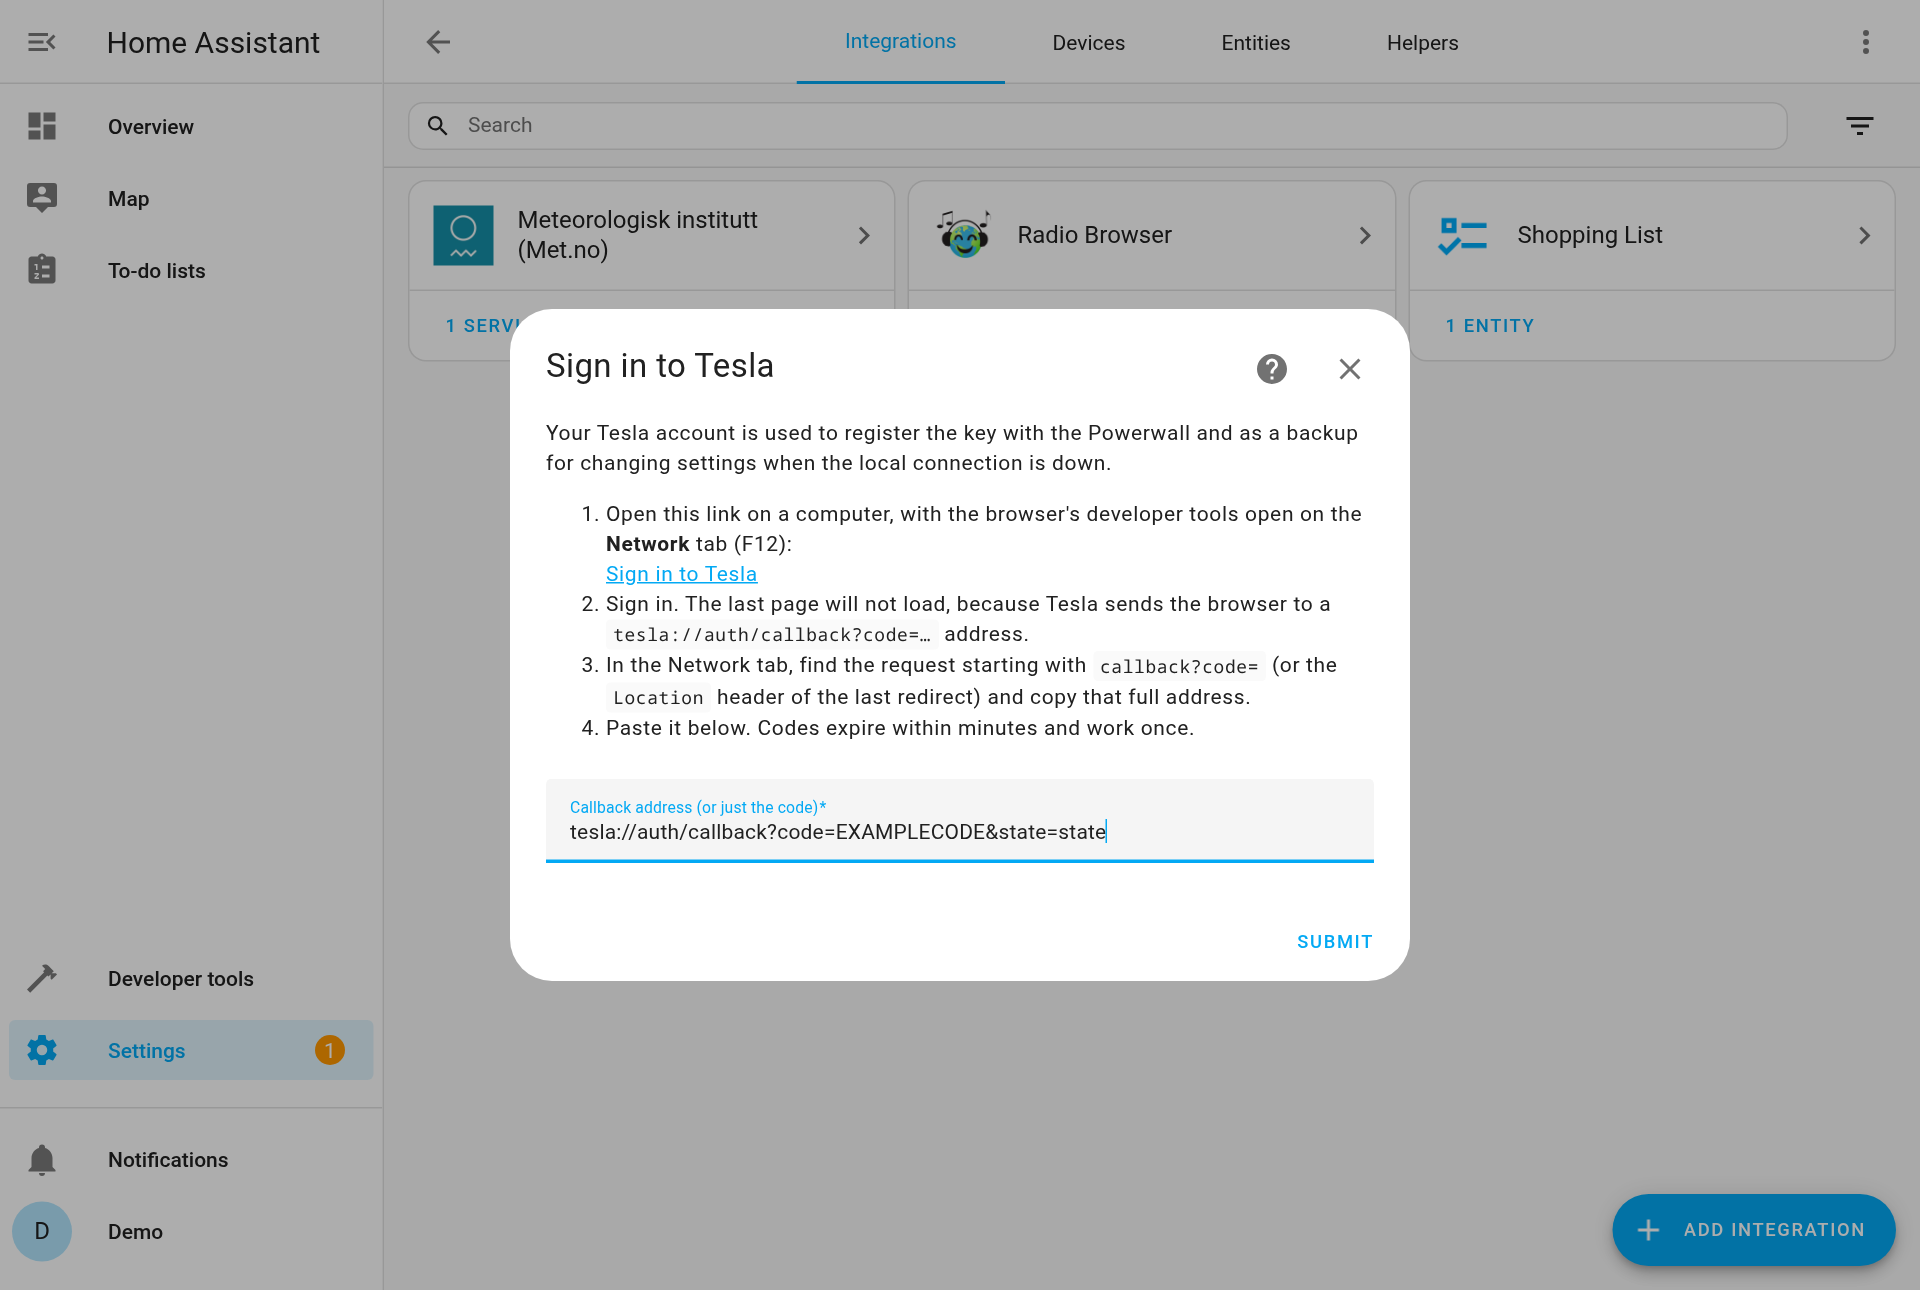
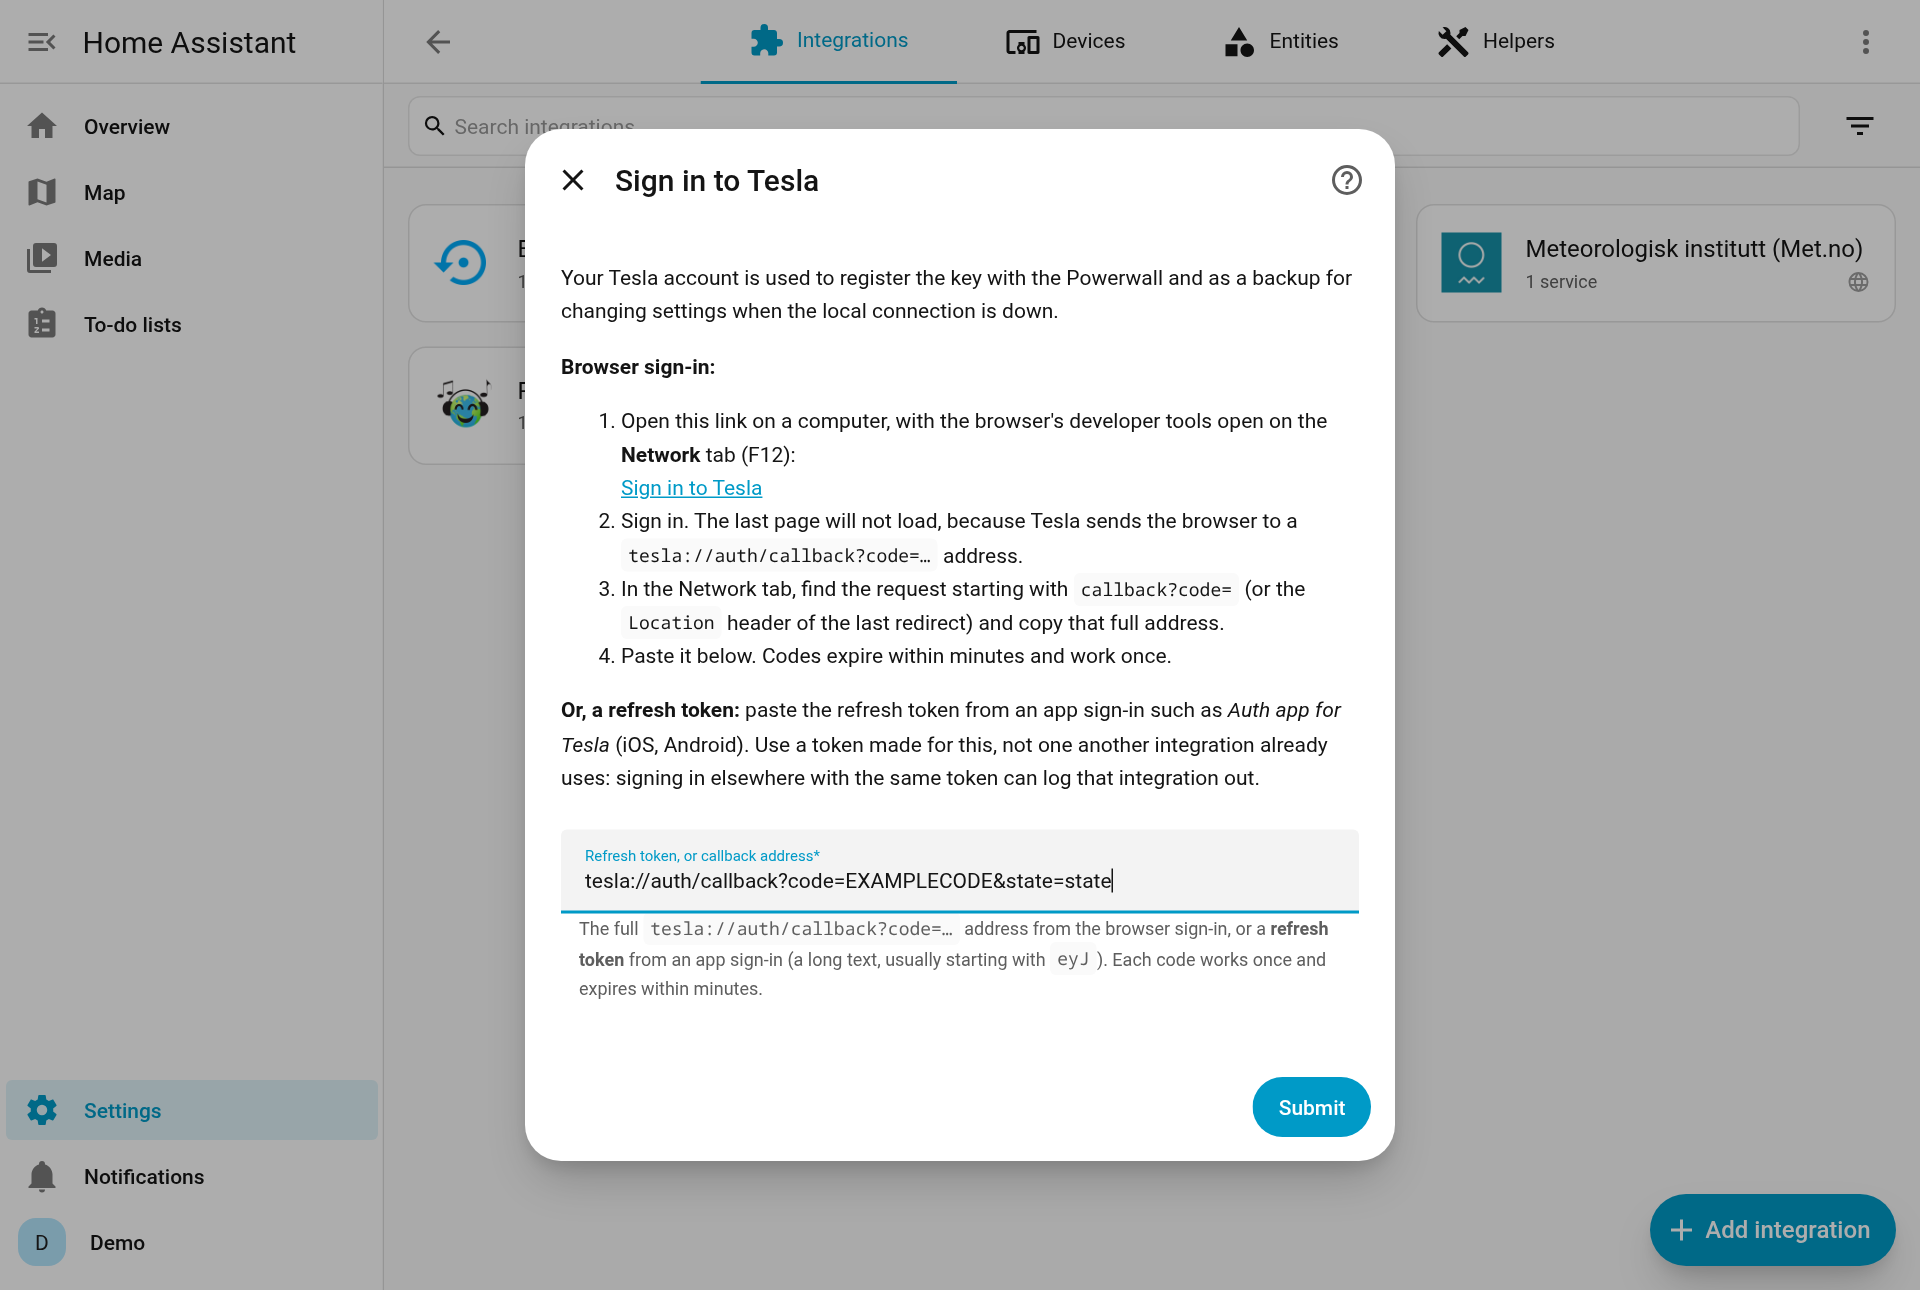
Docs: screenshots from 2.7.0 on Home Assistant 2026.11; sign-in choice screenshot

diff --git a/docs/setup.md b/docs/setup.md
@@ -118,6 +118,8 @@ The sign-in is kept (a Tesla account in `config/tesla_tedapi/.pypowerwall.auth`,
 <details>
 <summary>Screenshots: Tesla sign-in, confirmation, done</summary>
 
+<img src="images/setup-05a-sign-in-choice.png" alt="Choose how to sign in: Tesla account, Tesla Fleet or Teslemetry" width="640">
+
 <img src="images/setup-05-tesla-sign-in.png" alt="Tesla sign-in step" width="640">
 
 <img src="images/setup-06-confirm-key.png" alt="Waiting for the switch toggle at the Powerwall" width="640">
